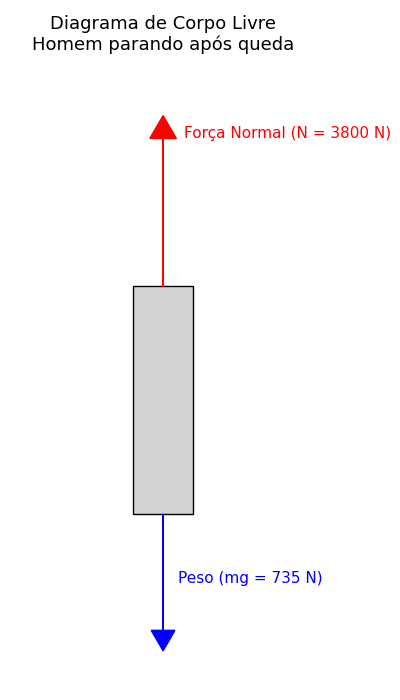
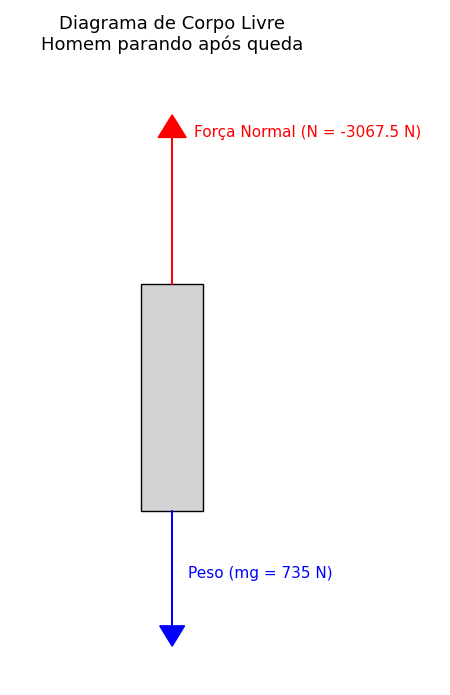
Atualizando a força Normal

Changed region(s): [[0.3, 0.3928, 0.81, 0.9367], [0.09, 0.0, 0.75, 0.0906], [0.36, 0.1511, 0.99, 0.3928]]

diff --git a/Atividade_3-51.py b/Atividade_3-51.py
@@ -3,7 +3,7 @@ import matplotlib.patches as patches
 
 # Valores aproximados para as forças (ajuste F_normal conforme cálculo)
 peso = 75 * 9.8 # Peso em N
-F_normal = 3800
+F_normal = -3067.5
 
 fig, ax = plt.subplots(figsize=(4, 7))
 
